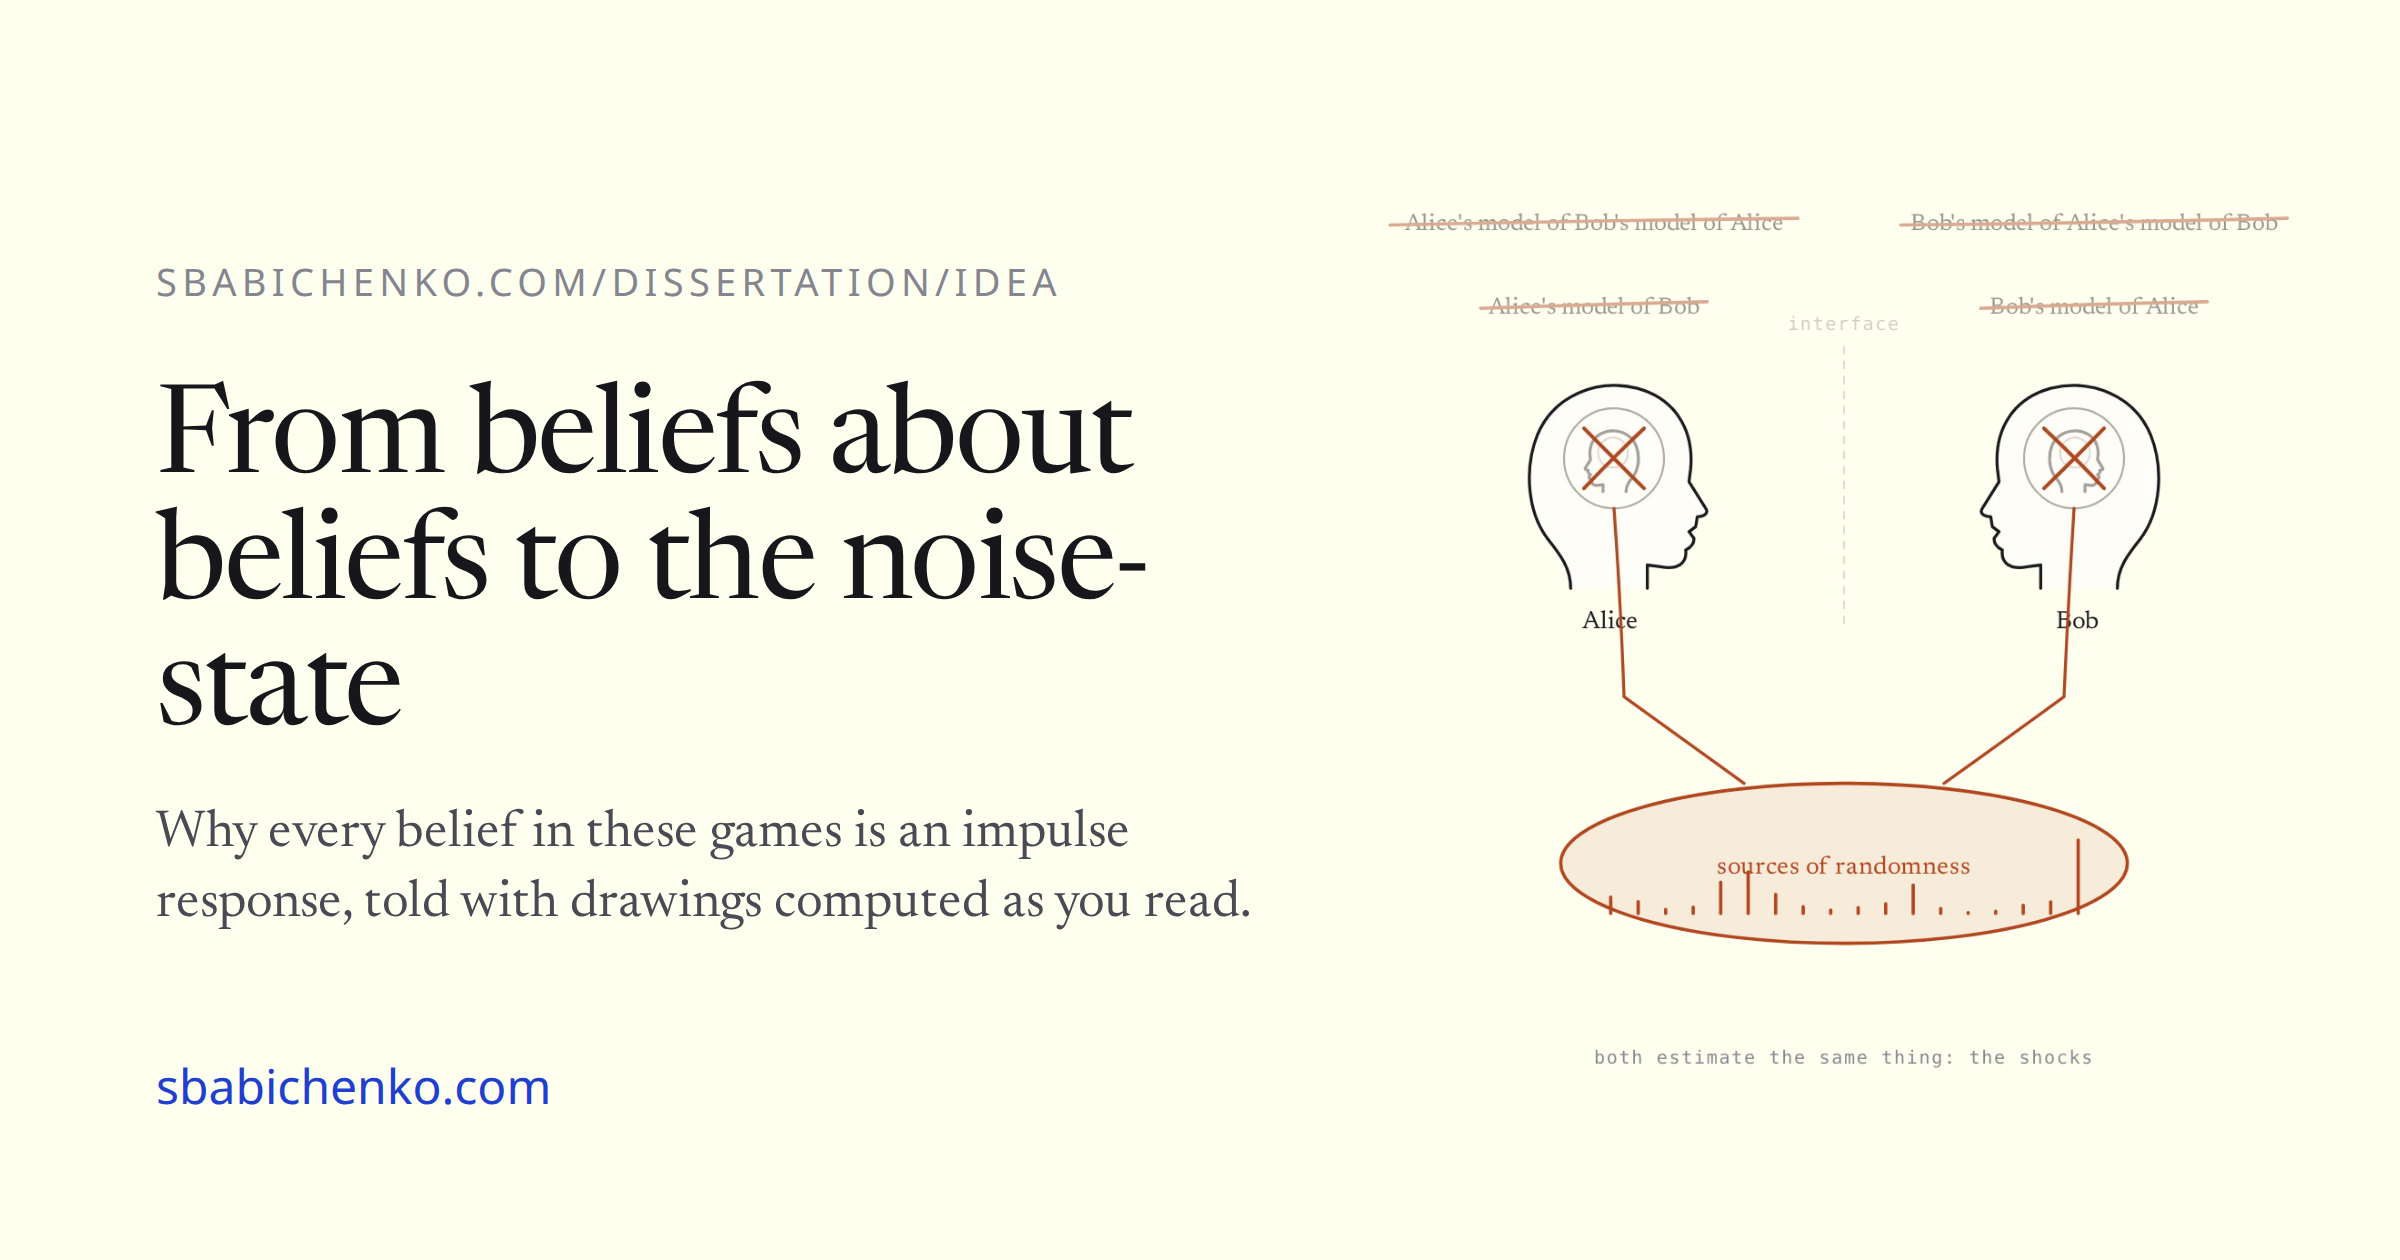
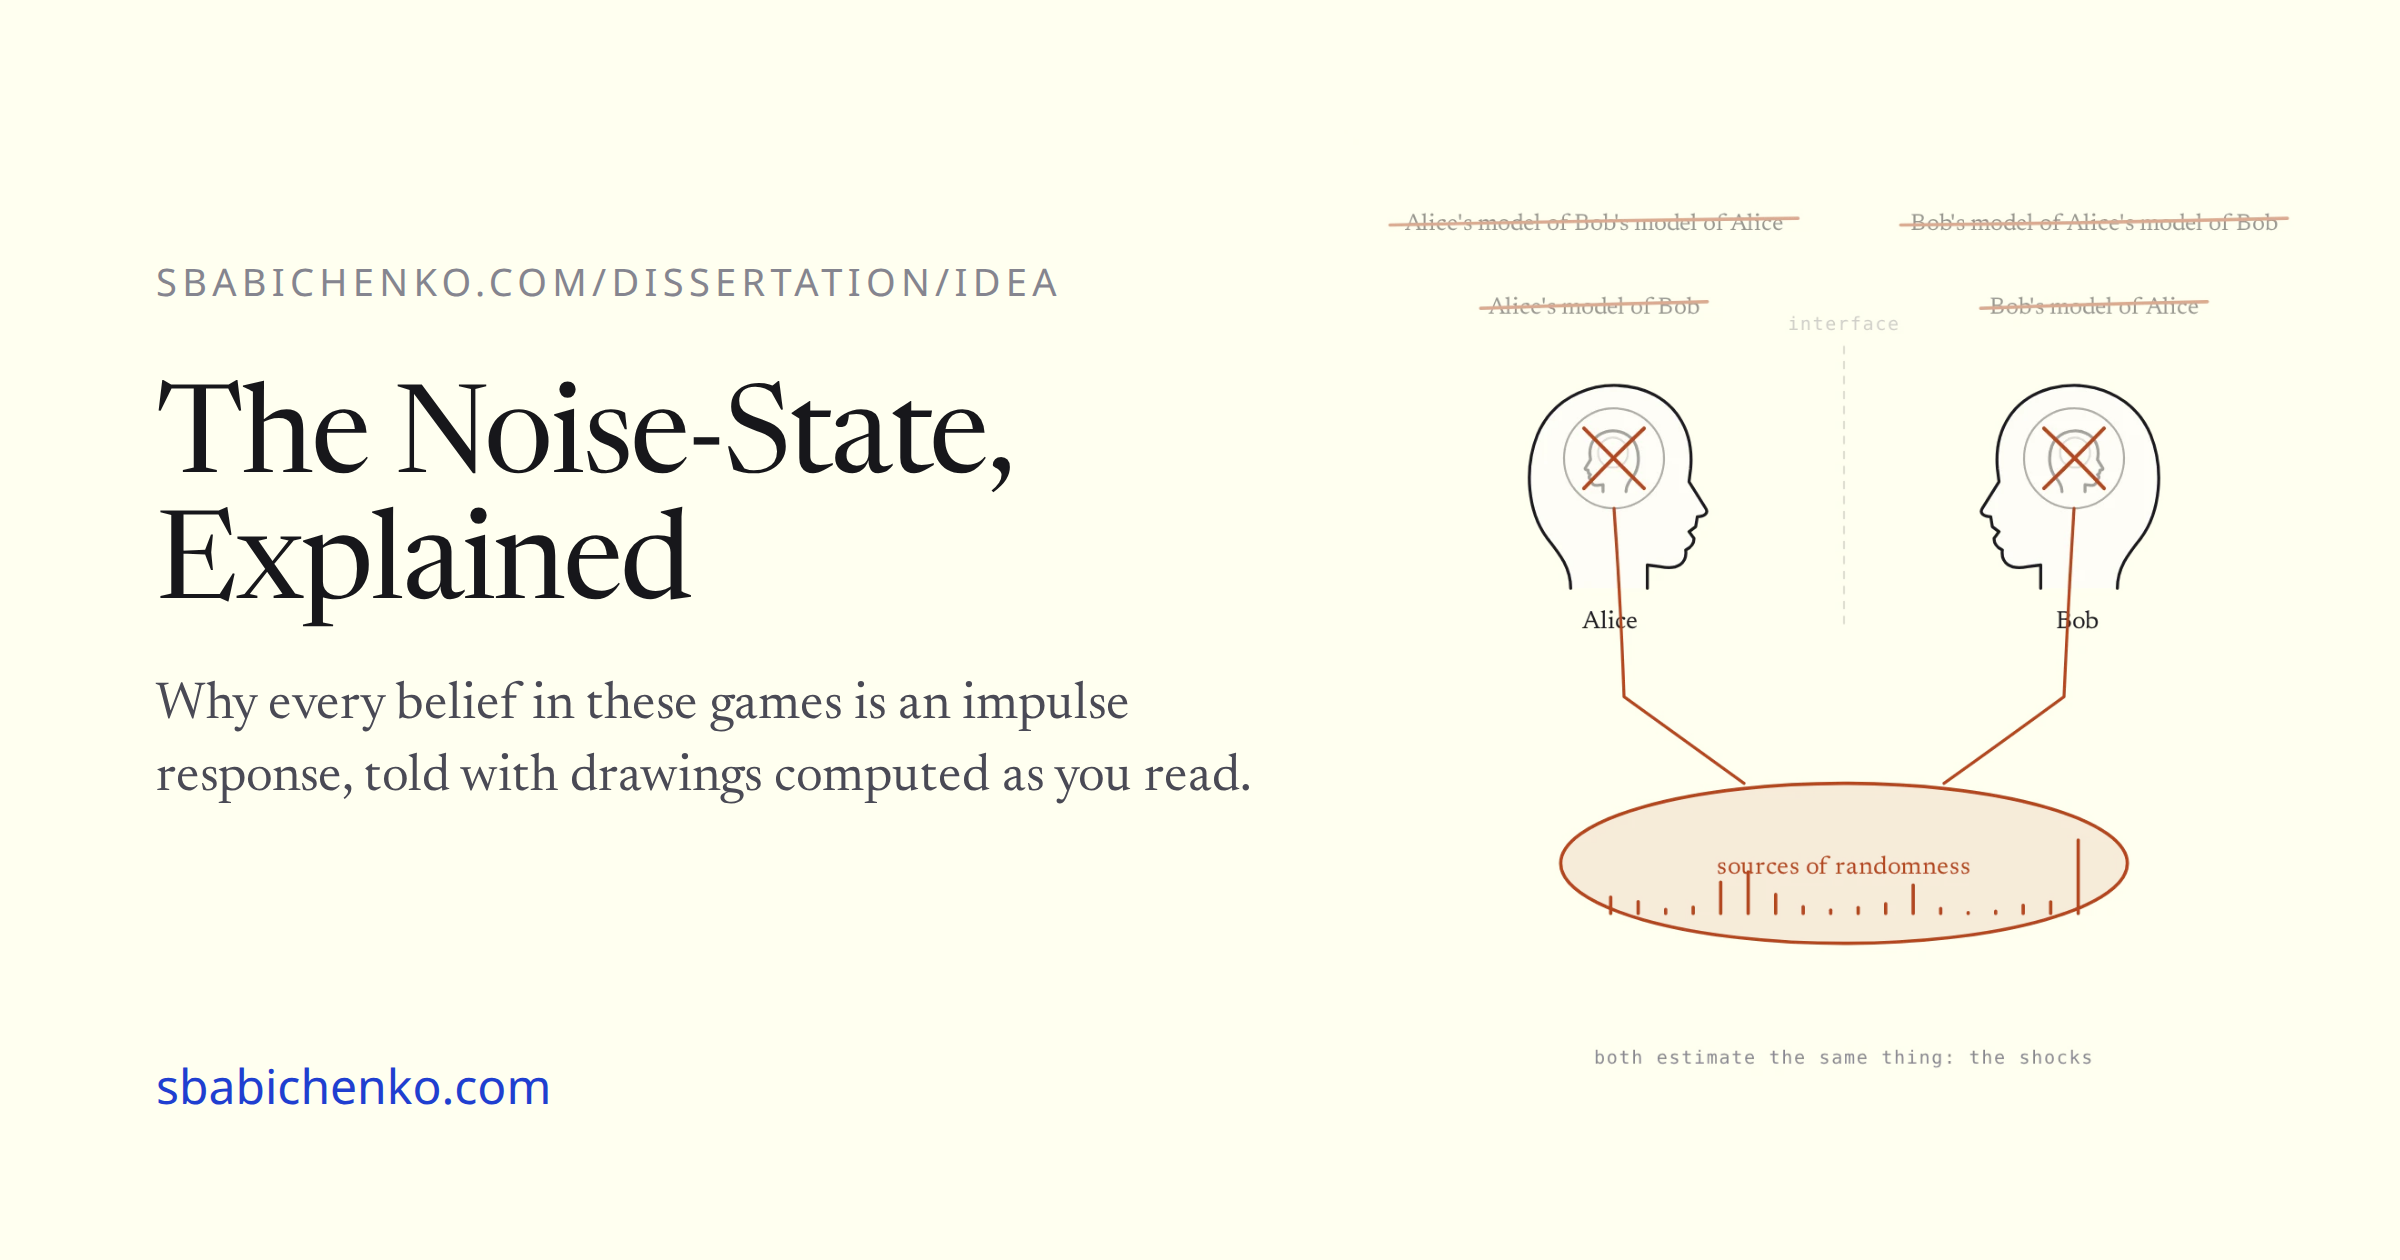
Descriptive titles in title case

Changed region(s): [[0.0625, 0.3095, 0.4688, 0.4952], [0.0625, 0.5262, 0.5, 0.681], [0.0625, 0.7119, 0.5312, 0.7429]]

diff --git a/templates/projects.html b/templates/projects.html
@@ -44,7 +44,7 @@
       </section>
 
       <section>
-        <h2>Run it here</h2>
+        <h2>Interactive Demos</h2>
         <div class="demos">
           <a class="demo" href="{{ get_url(path='noisestate/') }}">
             <div class="shot">
@@ -52,7 +52,7 @@
               <img class="img-dark" src="{{ get_url(path='images/card-noisestate-dark.webp') }}" alt="" width="480" height="240" />
             </div>
             <div class="body">
-              <h3>Games played through noise</h3>
+              <h3>Noise-State Game Explorer</h3>
               <p>Actions move the state, the state sets what others observe, and what they observe sets
                 their next actions. My dissertation keeps that loop intact by tracking beliefs about the
                 primitive shocks. Move a slider and the equilibrium is solved again in about a second.</p>
@@ -66,7 +66,7 @@
               <img class="img-dark" src="{{ get_url(path='images/card-gate-dark.webp') }}" alt="" width="480" height="240" />
             </div>
             <div class="body">
-              <h3>A mesh that knows when to stop</h3>
+              <h3>Gated Decision Mesh</h3>
               <p>Thousands of coins, each flipped a few times, and odds that change somewhere on the square.
                 The estimator cuts a mesh only where a false-discovery gate says the flips justify it, then
                 stops on its own. Draw the odds yourself and see what it can find.</p>
@@ -76,7 +76,7 @@
           </a>
           <a class="demo slim wide" href="{{ get_url(path='mesh/') }}">
             <div class="body">
-              <h3>Two kinds of triangle, rectangles and a tree</h3>
+              <h3>Decision Mesh Geometries Compared</h3>
               <p>Freeform triangles, right triangles, rectangles and a regression tree, grown on the same noisy surface
                 one greedy cut at a time, with the same number of free parameters each. No gate here.</p>
               <span class="go">Open the page <span class="arrow">&rarr;</span></span>
@@ -86,11 +86,11 @@
       </section>
 
       <section>
-        <h2>Illustrated explanations <span class="note">drawings that build as you scroll; the numbers are computed as you read</span></h2>
+        <h2>Illustrated Explanations</h2>
         <div class="demos stories">
           <a class="demo slim" href="{{ get_url(path='dissertation/idea/') }}">
             <div class="body">
-              <h3>From beliefs about beliefs to the noise-state</h3>
+              <h3>The Noise-State, Explained</h3>
               <p>Why every belief, price and action in these games is an impulse response, and how forecasting the
                 forecasts of others collapses into a composition of kernels.</p>
               <span class="go">Read it <span class="arrow">&rarr;</span></span>
@@ -106,7 +106,7 @@
           </a>
           <a class="demo slim" href="{{ get_url(path='gate/how/') }}">
             <div class="body">
-              <h3>How the gate decides</h3>
+              <h3>The False-Discovery Gate, Step by Step</h3>
               <p>Where the decision mesh cuts and when it stops: bias-corrected scores, an empirical null, a false-discovery
                 cutoff, drawn from a live run of the estimator in your browser.</p>
               <span class="go">Read it <span class="arrow">&rarr;</span></span>
@@ -124,7 +124,7 @@
       </section>
 
       <section>
-        <h2>Work</h2>
+        <h2>Projects</h2>
         <div class="work">
           {% for project in data.project %}
           <article class="item{% if project.detour %} with-still{% endif %}">

diff --git a/tools/make_og.js b/tools/make_og.js
@@ -15,7 +15,7 @@ const CARDS = [
     sub: "Games played through noise, and regressions that decide where to look." },
   { out: "og-noisestate.png", art: "image", src: "/images/card-noisestate-light.webp", titleWidth: 440,   // clear of the curves
     eyebrow: "sbabichenko.com/noisestate",
-    title: "Noise-state game explorer",
+    title: "Noise-State Game Explorer",
     sub: "Solve a linear-quadratic-Gaussian game in your browser: shock responses, sample paths, sweeps." },
   { out: "og-mesh.png", art: "mesh", surface: "cliff", seed: 77,
     eyebrow: "sbabichenko.com/mesh",
@@ -23,11 +23,11 @@ const CARDS = [
     sub: "Freeform triangles, right triangles, rectangles and a regression tree fit the same noisy surface." },
   { out: "og-gate.png", art: "image", src: "/images/card-gate-light.webp",
     eyebrow: "sbabichenko.com/gate",
-    title: "A mesh that knows when to stop",
+    title: "Gated Decision Mesh",
     sub: "Coin flips fitted in your browser by an estimator that cuts only where a false-discovery gate allows." },
   { out: "og-idea.png", art: "image", fit: "contain", src: "/images/card-idea.webp",
     eyebrow: "sbabichenko.com/dissertation/idea",
-    title: "From beliefs about beliefs to the noise-state",
+    title: "The Noise-State, Explained",
     sub: "Why every belief in these games is an impulse response, told with drawings computed as you read." },
   { out: "og-wedge.png", art: "image", fit: "contain", src: "/images/card-wedge.webp",
     eyebrow: "sbabichenko.com/dissertation/wedge",
@@ -35,7 +35,7 @@ const CARDS = [
     sub: "The information wedge, solved live: what moving an opponent's beliefs is worth." },
   { out: "og-gate-how.png", art: "image", fit: "contain", src: "/images/card-gate-how.webp",
     eyebrow: "sbabichenko.com/gate/how",
-    title: "How the gate decides",
+    title: "The False-Discovery Gate, Step by Step",
     sub: "Where the decision mesh cuts and when it stops, drawn from a live run of the estimator." },
   { out: "og-dissertation.png", art: "shocks", seed: 5, titleWidth: 1000,   // one line: the title is the book's first sentence
     eyebrow: "sbabichenko.com/dissertation",

diff --git a/templates/gate.html b/templates/gate.html
@@ -11,7 +11,7 @@
 
     <main class="explorer mesh gate" id="gate" data-worker="{{ get_url(path='mesh/fit-worker.js') }}">
       <div class="crumbs"><a href="{{ get_url(path='') }}">Projects</a> &nbsp;/&nbsp; <a href="{{ get_url(path='mesh/') }}">Decision Mesh</a> &nbsp;/&nbsp; The gate</div>
-      <h1>A mesh that knows when to stop</h1>
+      <h1>Gated Decision Mesh</h1>
       <p class="sub">The odds of a coin vary over this square. A few thousand sites each flip a coin a handful of
         times. The estimator refines a mesh of right triangles or rectangles only where a false-discovery gate finds
         support in the flips, and stops when no candidate passes.</p>
@@ -70,7 +70,7 @@
       <div id="results" class="stale">
         <section class="panel"><div class="cards" id="cards"></div></section>
         <section class="panel">
-          <h2>The gate, round by round</h2>
+          <h2>Round-by-Round Results</h2>
           <div class="tablewrap" id="rounds"></div>
           <p class="caption">Each round scores every candidate vertex (the midpoints of the mesh's edges) by how much
             it would improve the fit. If no candidate mattered, the scores would look like draws from one bell curve, the
@@ -80,7 +80,7 @@
             back to the textbook one. Each coin also has an effect of its own on the log-odds, and the coin variance is
             the estimator's estimate of their spread, fitted alongside the surface: as the mesh learns the odds, what it
             can't explain shrinks toward the spread the slider set.
-            <a href="{{ get_url(path='gate/how/') }}">How the gate decides</a> draws each of these steps from a live run.</p>
+            <a href="{{ get_url(path='gate/how/') }}">The False-Discovery Gate, Step by Step</a> draws each of these steps from a live run.</p>
         </section>
       </div>
 

diff --git a/templates/mesh.html b/templates/mesh.html
@@ -99,7 +99,7 @@
       </section>
 
       <section class="panel">
-        <h2>Error against the truth</h2>
+        <h2>Error Against the Truth</h2>
         <div class="cv wide"><canvas id="cvcurve" width="900" height="220"></canvas></div>
         <p class="caption">Root-mean-square distance from the true surface over the square, against the number of free
           parameters; the dashed line is the noise &sigma;. Over a whole run, on all six surfaces the right triangles get closest to the
@@ -132,7 +132,7 @@
         <p>None of these four has a stopping rule: they grow until the page runs out of budget. The estimator I actually
           use chooses its cuts with an empirical-null false-discovery gate and stops by itself;
           <a href="{{ get_url(path='gate/') }}">it runs here too</a>, compiled from its C++, and
-          <a href="{{ get_url(path='gate/how/') }}">How the gate decides</a> walks through one of its fits step by step.</p>
+          <a href="{{ get_url(path='gate/how/') }}">The False-Discovery Gate, Step by Step</a> walks through one of its fits.</p>
         <p>Also on this site: the <a href="{{ get_url(path='noisestate/') }}">noise-state game explorer</a>, which solves the games of my dissertation in your browser.</p>
       </div>
     </main>

diff --git a/templates/404.html b/templates/404.html
@@ -11,7 +11,7 @@
       <section class="hero lost">
         <canvas id="heroink" data-mode="nothing" aria-hidden="true"></canvas>
         <p class="eyebrow">404</p>
-        <h1>Nothing here</h1>
+        <h1>Page Not Found</h1>
         <p class="lede">No page at this address.</p>
         <p class="lede"><a class="back" href="{{ get_url(path='') }}">Back to the front &rarr;</a></p>
       </section>
@@ -21,14 +21,14 @@
         <div class="demos">
           <a class="demo slim" href="{{ get_url(path='noisestate/') }}">
             <div class="body">
-              <h3>Games played through noise</h3>
+              <h3>Noise-State Game Explorer</h3>
               <p>Solve a linear-quadratic-Gaussian game in your browser.</p>
               <span class="go">Open the explorer <span class="arrow">&rarr;</span></span>
             </div>
           </a>
           <a class="demo slim" href="{{ get_url(path='gate/') }}">
             <div class="body">
-              <h3>A mesh that knows when to stop</h3>
+              <h3>Gated Decision Mesh</h3>
               <p>Draw the odds of a coin and watch a false-discovery gate decide where to cut.</p>
               <span class="go">Open the page <span class="arrow">&rarr;</span></span>
             </div>

diff --git a/templates/explorer.html b/templates/explorer.html
@@ -14,7 +14,7 @@
 
     <main class="explorer">
       <div class="crumbs"><a href="{{ get_url(path='') }}">Projects</a> &nbsp;/&nbsp; Noise-state calculus for dynamic games with strategic information</div>
-      <h1>Noise-state game explorer</h1>
+      <h1>Noise-State Game Explorer</h1>
       <p class="sub">Dynamic games with dispersed private information look hard, even when linearized, because each player
         needs forecasts of others' forecasts, without end. The regress comes from a loop: actions move the state, the
         state generates observations, observations update beliefs, and beliefs determine actions. <a href="{{ get_url(path='dissertation/') }}">My dissertation</a> builds
@@ -112,7 +112,7 @@
       <div id="results"></div>
 
       <section class="panel" id="sweeppanel" hidden>
-        <h2>Sweep a parameter</h2>
+        <h2>Parameter Sweep</h2>
         <div class="row">
           <label for="sweepkey" class="small muted">Vary</label><select id="sweepkey"></select>
           <button class="secondary" id="sweepbtn">Sweep</button>

diff --git a/templates/thesis.html b/templates/thesis.html
@@ -40,7 +40,7 @@
         <div class="kicker"><a href="{{ get_url(path='dissertation/') }}">Noise-state calculus &middot; dissertation</a></div>
         {%- if slug == "introduction" or slug == "chapter-1" %}
         <nav class="pictures" aria-label="Illustrated explanations">
-          <a href="{{ get_url(path='dissertation/idea/') }}"><span>Illustrated</span><b>From beliefs about beliefs to the noise-state</b></a>
+          <a href="{{ get_url(path='dissertation/idea/') }}"><span>Illustrated</span><b>The Noise-State, Explained</b></a>
           <a href="{{ get_url(path='dissertation/wedge/') }}"><span>Illustrated</span><b>The price of changing someone&rsquo;s mind</b></a>
         </nav>
         {%- endif %}

diff --git a/templates/gate-how.html b/templates/gate-how.html
@@ -14,7 +14,7 @@
     <main class="opening idea gatehow" id="gatehow" data-engine="tri" data-worker="{{ get_url(path='mesh/fit-worker.js') }}">
       <section class="ideahead">
         <p class="eyebrow"><a href="{{ get_url(path='mesh/') }}">Decision Mesh</a> &middot; <a href="{{ get_url(path='gate/') }}">The gate</a> &middot; illustrated</p>
-        <h1>How the gate decides</h1>
+        <h1>The False-Discovery Gate, Step by Step</h1>
         <p class="lede">The decision mesh adds a vertex only where the data support one, and stops when nothing
           else does. The drawings below come from one run of the estimator in your browser, on coin flips drawn on this
           page.</p>

diff --git a/templates/idea.html b/templates/idea.html
@@ -13,7 +13,7 @@
     <main class="opening idea">
       <section class="ideahead">
         <p class="eyebrow"><a href="{{ get_url(path='dissertation/') }}">Dissertation</a> &middot; illustrated explanation</p>
-        <h1>From beliefs about beliefs to the noise-state</h1>
+        <h1>The Noise-State, Explained</h1>
         <p class="lede">Why the dissertation writes everything as impulse responses. Every drawing below is computed on this
           page from one small problem: a state <i>X</i> pushed around by random shocks, watched by two players through
           their own noisy signals.</p>

diff --git a/content/pages/cv.md b/content/pages/cv.md
@@ -1,5 +1,5 @@
 +++
-title = "Curriculum vitae"
+title = "Curriculum Vitae"
 path = "cv"
 +++
 
@@ -49,7 +49,7 @@ Solo-authored, submitted March 2026. The two-player core of the dissertation. Sp
 
 ---
 
-## Selected projects
+## Selected Projects
 
 **Decision Mesh** &middot; [sbabichenko.com/gate](/gate/) &middot; [github.com/sbabichenko/triangular-decision-mesh](https://github.com/sbabichenko/triangular-decision-mesh)\
 Mesh regression that fits continuous surfaces where trees fit steps. A right-triangle or rectangular mesh is refined only where a false-discovery gate says the data justify a cut, and stops on its own. Built for the discontinuities that tree models showed in the prepayment work.

diff --git a/content/gate-how.md b/content/gate-how.md
@@ -1,5 +1,5 @@
 +++
-title = "How the gate decides"
+title = "The False-Discovery Gate, Step by Step"
 description = "The decision-mesh estimators' gate, step by step: the candidates, their bias-corrected scores, the empirical null, the false-discovery cutoff, admission, and the two variances. Every drawing comes from a live run of the estimator in your browser."
 path = "gate/how"
 template = "gate-how.html"

diff --git a/content/noisestate.md b/content/noisestate.md
@@ -1,5 +1,5 @@
 +++
-title = "Game explorer"
+title = "Noise-State Game Explorer"
 description = "The games of my dissertation, solved in your browser: linear-quadratic-Gaussian games with dispersed private information, where actions teach others what you know. Shock responses, information wedges, sample paths and regime changes, computed live."
 path = "noisestate"
 template = "explorer.html"
